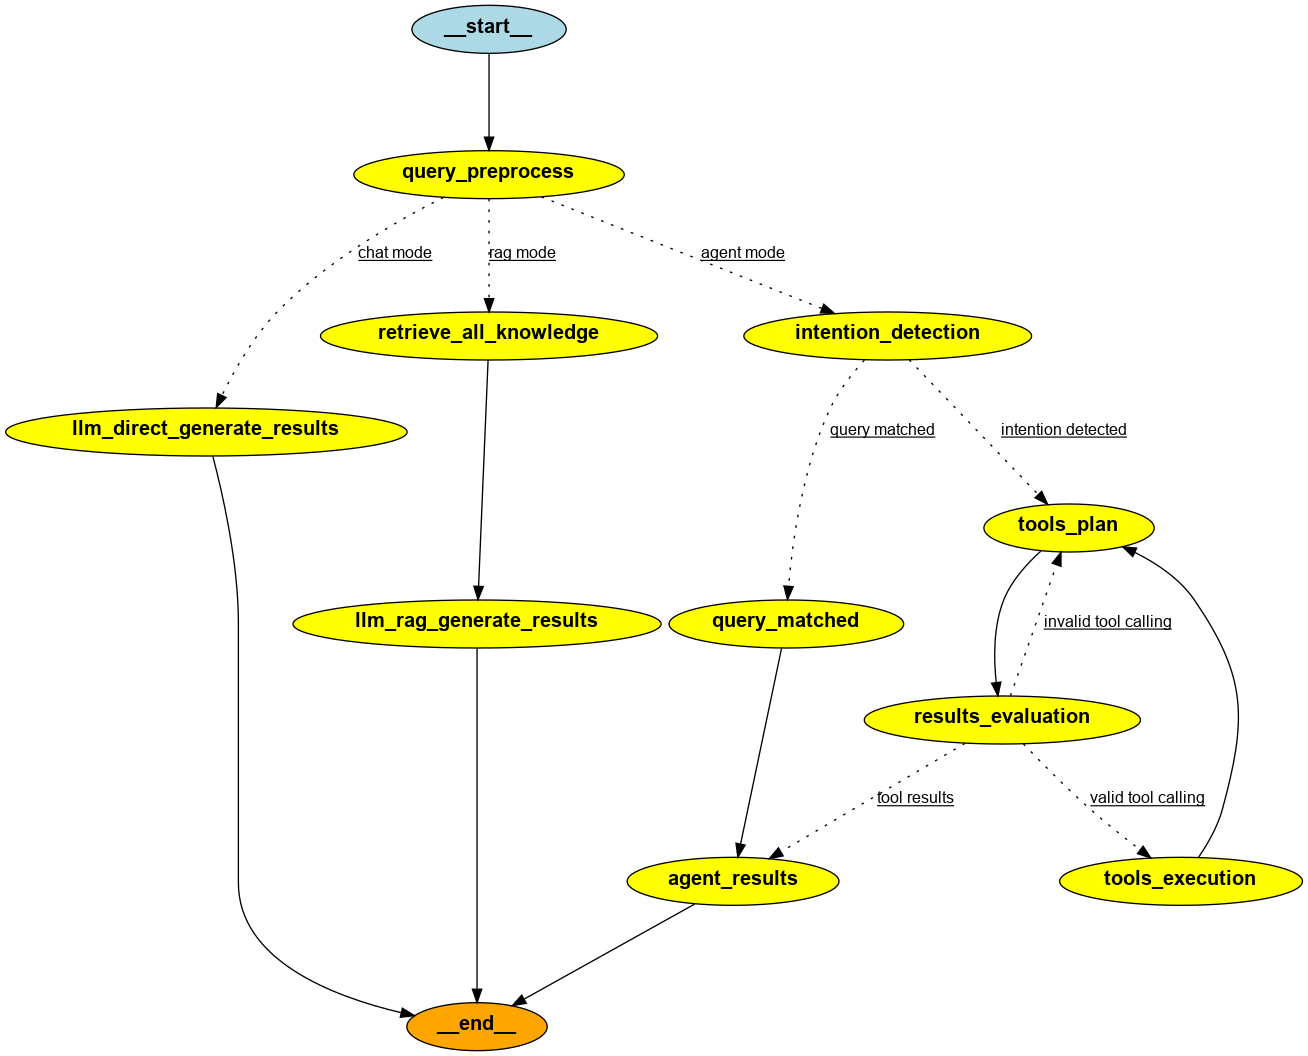
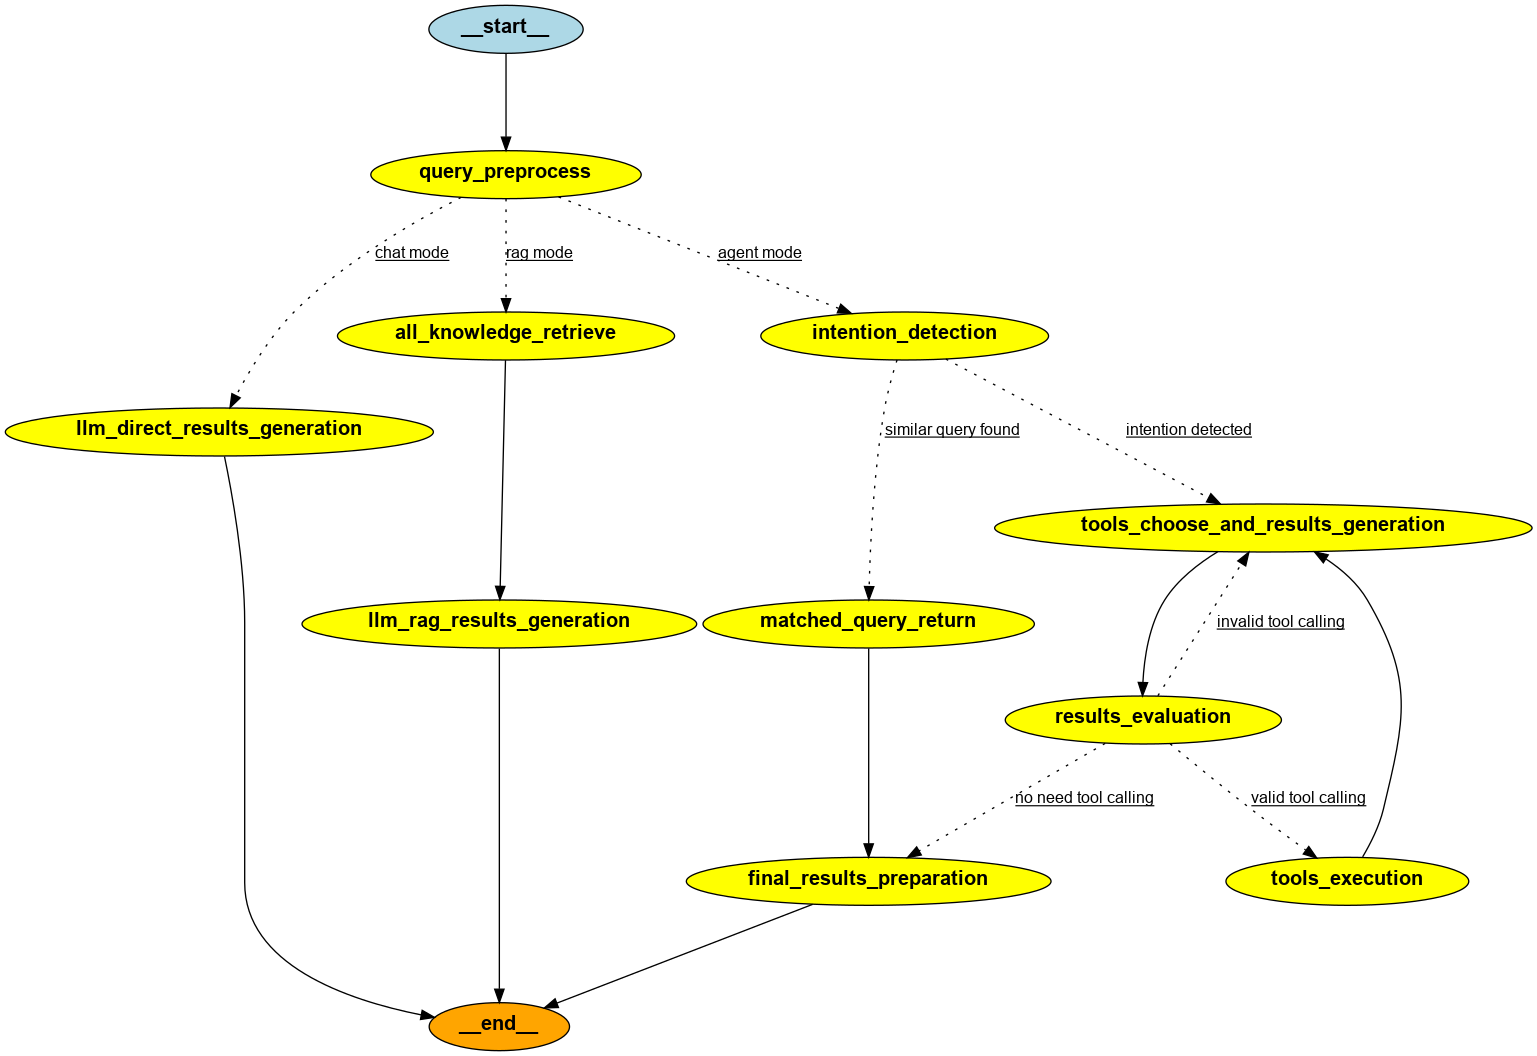
update common entry

diff --git a/source/lambda/online/lambda_main/main_utils/online_entries/common_entry.py b/source/lambda/online/lambda_main/main_utils/online_entries/common_entry.py
@@ -361,34 +361,34 @@ def agent_route(state: dict):
     recent_tool_name = recent_tool_call["name"]
 
     if recent_tool_name in ["comfort", "transfer"]:
-        return "tool results"
+        return "no need tool calling"
         # return "format reply"
 
     if recent_tool_name in ["QA", "service_availability", "explain_abbr"]:
-        return "tool results"
+        return "no need tool calling"
         # return "aws qa"
 
     if recent_tool_name in ["assist", "chat"]:
-        return "tool results"
+        return "no need tool calling"
         # return "chat"
 
     if recent_tool_call["name"] == "give_rhetorical_question":
-        return "tool results"
+        return "no need tool calling"
         # return "rhetorical question"
 
     if recent_tool_call["name"] == "give_final_response":
         if state['current_agent_recursion_num'] == 1:
-            return "tool results"
+            return "no need tool calling"
             # return "force to retrieve all knowledge"
             # return "first final response/rag intention/recursion limit"
         else:
-            return "tool results"
+            return "no need tool calling"
             # return "generate results"
             # return "give final response"
     
     if state['current_agent_recursion_num'] >= state['agent_recursion_limit']:
         send_trace(f"Reach the agent recursion limit: {state['agent_recursion_limit']}, route to final rag")
-        return "tool results"
+        return "no need tool calling"
         # return "force to retrieve all knowledge"
 
     return "valid tool calling"
@@ -413,17 +413,17 @@ def build_graph():
     # add all nodes
     workflow.add_node("query_preprocess", query_preprocess_lambda)
     # chat mode
-    workflow.add_node("llm_direct_generate_results", chat_llm_generate_lambda)
+    workflow.add_node("llm_direct_results_generation", chat_llm_generate_lambda)
     # rag mode
-    workflow.add_node("retrieve_all_knowledge", rag_all_index_lambda)
-    workflow.add_node("llm_rag_generate_results", rag_llm_lambda)
+    workflow.add_node("all_knowledge_retrieve", rag_all_index_lambda)
+    workflow.add_node("llm_rag_results_generation", rag_llm_lambda)
     # agent mode
     workflow.add_node("intention_detection", intention_detection_lambda)
-    workflow.add_node("query_matched", qq_matched_reply)
-    workflow.add_node("tools_plan", agent_lambda)
+    workflow.add_node("matched_query_return", qq_matched_reply)
+    workflow.add_node("tools_choose_and_results_generation", agent_lambda)
     workflow.add_node("tools_execution", tool_execute_lambda)
     workflow.add_node("results_evaluation", parse_tool_calling)
-    workflow.add_node("agent_results", give_final_response)
+    workflow.add_node("final_results_preparation", give_final_response)
     # workflow.add_node("format_reply", format_reply)
     # workflow.add_node("comfort_reply", comfort_reply)
     # workflow.add_node("transfer_reply", transfer_reply)
@@ -437,15 +437,15 @@ def build_graph():
     # add all edges
     workflow.set_entry_point("query_preprocess")
     # chat mode
-    workflow.add_edge("llm_direct_generate_results", END)
+    workflow.add_edge("llm_direct_results_generation", END)
     # rag mode
-    workflow.add_edge("retrieve_all_knowledge", "llm_rag_generate_results")
-    workflow.add_edge("llm_rag_generate_results", END)
+    workflow.add_edge("all_knowledge_retrieve", "llm_rag_results_generation")
+    workflow.add_edge("llm_rag_results_generation", END)
     # agent mode
-    workflow.add_edge("tools_plan", "results_evaluation")
-    workflow.add_edge("tools_execution", "tools_plan")
-    workflow.add_edge("query_matched", "agent_results")
-    workflow.add_edge("agent_results", END)
+    workflow.add_edge("tools_choose_and_results_generation", "results_evaluation")
+    workflow.add_edge("tools_execution", "tools_choose_and_results_generation")
+    workflow.add_edge("matched_query_return", "final_results_preparation")
+    workflow.add_edge("final_results_preparation", END)
     # workflow.add_edge("rag_all_index_lambda", "rag_llm_lambda")
     # workflow.add_edge("aws_qa_lambda", "rag_llm_lambda")
     # workflow.add_edge("rag_llm_lambda", END)
@@ -467,8 +467,8 @@ def build_graph():
         "query_preprocess",
         query_route,
         {
-            "chat mode": "llm_direct_generate_results",
-            "rag mode": "retrieve_all_knowledge",
+            "chat mode": "llm_direct_results_generation",
+            "rag mode": "all_knowledge_retrieve",
             "agent mode": "intention_detection",
         },
     )
@@ -481,9 +481,9 @@ def build_graph():
         "intention_detection",
         intent_route,
         {
-            "query matched": "query_matched",
-            "intention detected": "tools_plan",
-            # "no clear intentions": "retrieve_all_knowledge", 
+            "similar query found": "matched_query_return",
+            "intention detected": "tools_choose_and_results_generation",
+            # "no clear intentions": "all_knowledge_retrieve", 
         },
     )
 
@@ -493,15 +493,15 @@ def build_graph():
     # 3. generate results: based on running of tools, agent thinks it's ok to generate results.
     # 4. force retrieve all knowledge and generate results: to address hallucination and stability issues, we force agent to retrieve all knowledge and generate results:
     # 4.1 the agent believes that it can produce results without executing tools
-    # 4.2 the tools_plan node reaches its maximum recusion limit
+    # 4.2 the tools_choose_and_results_generation node reaches its maximum recusion limit
     workflow.add_conditional_edges(
         "results_evaluation",
         agent_route,
         {
-            "invalid tool calling": "tools_plan",
+            "invalid tool calling": "tools_choose_and_results_generation",
             "valid tool calling": "tools_execution",
-            "tool results": "agent_results",
-            # "force to retrieve all knowledge": "retrieve_all_knowledge", 
+            "no need tool calling": "final_results_preparation",
+            # "force to retrieve all knowledge": "all_knowledge_retrieve", 
             # "give final response": "give_final_response",
             # "rhetorical question": "give_rhetorical_question",
             # "format reply": "format_reply",
@@ -520,13 +520,13 @@ def build_graph():
     # # 2.1 in rag mode based on user selection at beginning
     # # 2.2 agent thinks it needs to retrieve all the knowledge to generate the results
     # # 2.3 the agent believes that it can produce results without executing tools
-    # # 2.4 the tools_plan node reaches its maximum recusion limit
+    # # 2.4 the tools_choose_and_results_generation node reaches its maximum recusion limit
     # workflow.add_conditional_edges(
-    #     "retrieve_all_knowledge",
+    #     "all_knowledge_retrieve",
     #     rag_all_index_lambda_route,
     #     {
-    #         "no clear intentions": "tools_plan",
-    #         "generate results in rag mode": "llm_rag_generate_results",
+    #         "no clear intentions": "tools_choose_and_results_generation",
+    #         "generate results in rag mode": "llm_rag_results_generation",
     #     },
     # )
     app = workflow.compile()

diff --git a/source/lambda/online/functions/tool_calling_parse.py b/source/lambda/online/functions/tool_calling_parse.py
@@ -63,11 +63,15 @@ class Claude3SonnetFToolCallingParse(ToolCallingParse):
             for parameter_key in cur_tool['parameters']['required']:
                 value = re.findall(f'<{parameter_key}>(.*?)</{parameter_key}>', function_call, re.DOTALL)
                 if not value:
-                    raise ToolParameterNotExistError(
-                        tool_name=tool_name,
-                        parameter_key=parameter_key,
-                        function_call_content=function_call
-                        )
+                    # expand search region
+                    search_region = re.findall(f'<parameter>\n<name>{parameter_key}</name>(.*?)</parameter>', function_call, re.DOTALL)
+                    value = re.findall(f'<value>(.*?)</value>', search_region, re.DOTALL)
+                    if not value:
+                        raise ToolParameterNotExistError(
+                            tool_name=tool_name,
+                            parameter_key=parameter_key,
+                            function_call_content=function_call
+                            )
                 # TODO, add too many parameters error
                 assert len(value) == 1,(parameter_key,function_call)
                 arguments[parameter_key] = value[0].strip()
